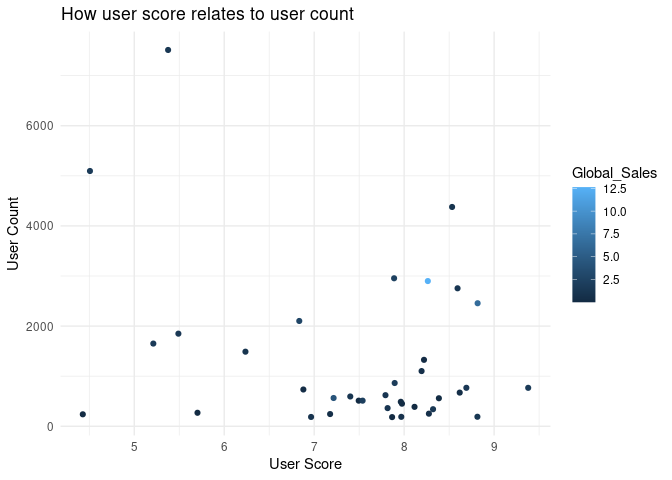
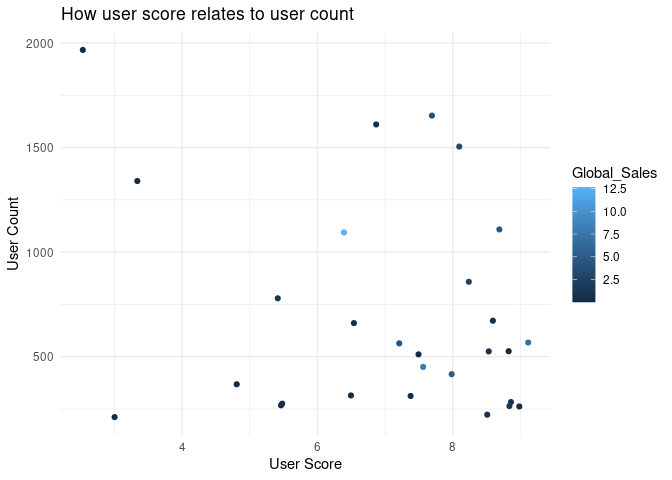
commit proposal

diff --git a/proposal/proposal.md b/proposal/proposal.md
@@ -248,9 +248,9 @@ sample_data %>%
 
     ## `geom_smooth()` using formula 'y ~ x'
 
-    ## Warning: Removed 269 rows containing non-finite values (stat_smooth).
+    ## Warning: Removed 247 rows containing non-finite values (stat_smooth).
 
-    ## Warning: Removed 269 rows containing missing values (geom_point).
+    ## Warning: Removed 247 rows containing missing values (geom_point).
 
 ![](proposal_files/figure-gfm/unnamed-chunk-3-1.png)<!-- -->
 
@@ -288,8 +288,8 @@ sample_data1 <- video_game_sales %>%
 sample_data1$User_Score <- as.numeric(as.character(sample_data1$User_Score))
 
 sample_data1 %>%
-  filter(User_Count > 175) %>%
-  ggplot(aes(as.numeric(User_Score), x = User_Score, y = User_Count , color = Global_Sales)) +
+  filter(User_Count > 200) %>%
+  ggplot(aes(x = User_Score, y = User_Count , color = Global_Sales)) +
   geom_jitter()+
   labs(title = "How user score relates to user count",
        x = "User Score", y = "User Count"
@@ -343,8 +343,11 @@ high_selling_games %>%
 
 ![](proposal_files/figure-gfm/unnamed-chunk-5-1.png)<!-- --> We can see
 that Nintendo have the most game in top 50 high selling games, its about
-30+ and in total there is 5 publisher having game in the top 50. Where
-other publisher are all having games less than 10.
+20+ and in total there is 9 publishers having game in the top 50. Where
+other publisher are all having games less than 10. So we can see that
+the game published by Nintendo are having more sales, where Nintendo is
+such a large company which having a large amount of money so the game
+published from Nintendo do have a higher quality.
 
 ### Seventh data
 
